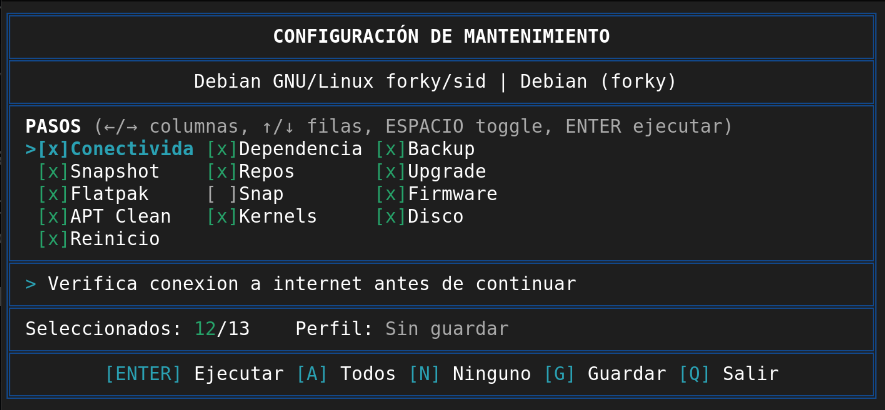
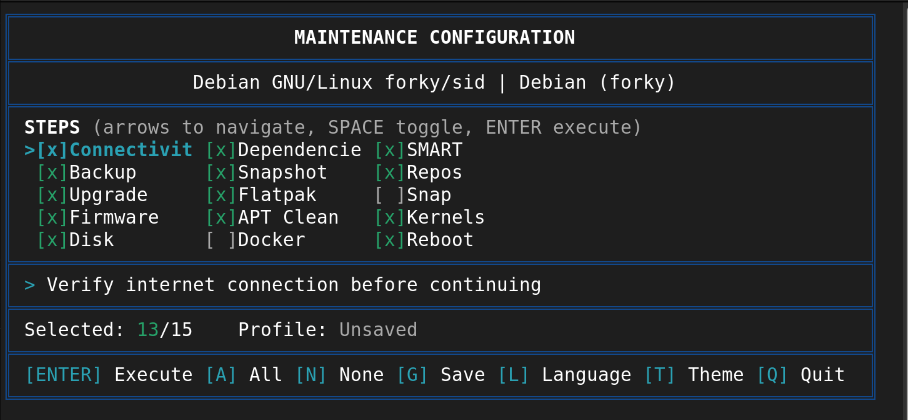
Update screenshots and add 2 new execution summary images
- Updated screenshots 1-4 with latest UI
- Added screenshots 5-6 for complete execution summary
- Updated README to include all 6 screenshots

🤖 Generated with [Claude Code](https://claude.com/claude-code)

Changed region(s): [[0.0, 0.0, 1.0, 0.9951]]

diff --git a/README.md b/README.md
@@ -294,6 +294,10 @@ El script muestra un resumen detallado al finalizar con el estado de cada paso:
 
 ![Resumen de Ejecucion 4](screenshots/resumen-ejecucion-4.png)
 
+![Resumen de Ejecucion 5](screenshots/resumen-ejecucion-5.png)
+
+![Resumen de Ejecucion 6](screenshots/resumen-ejecucion-6.png)
+
 ---
 
 ## Menu Interactivo
